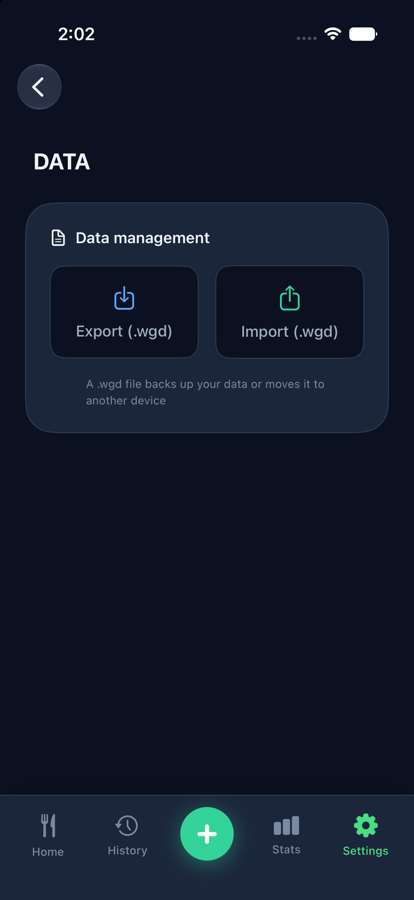
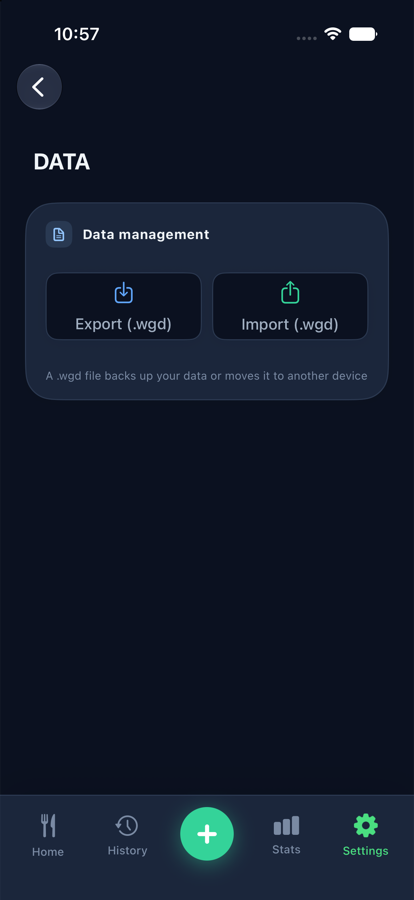
Drop the blur and refresh the screenshots
Content showing through blurred under the bars did not suit the app, so
the bars go back to the flat colour.

The screenshots are all retaken from the running app on the reworked
settings screens, through a throwaway launch argument that picks which
screen to open, so one build covered every shot. That code is not in the
tree.

Changed region(s): [[0.058, 0.2489, 0.9565, 0.4978], [0.1159, 0.0311, 0.2319, 0.0622], [0.8696, 0.3111, 0.8986, 0.3733]]

diff --git a/CalorieFlow/Views/RootView.swift b/CalorieFlow/Views/RootView.swift
@@ -161,25 +161,9 @@ struct ScreenScroll<Content: View>: View {
                 .ignoresSafeArea()
                 .onTapGesture { hideKeyboard() }
         )
-        .overlay(alignment: .top) { StatusBarBlur() }
     }
 }
 
-/// ฝ้าเบลอคลุมพื้นที่ status bar
-///
-/// ทาสีทึบไว้ข้างหลังทำให้ไม่มีแถบดำก็จริง แต่เนื้อหาที่เลื่อนขึ้นไปจะหายวับใต้ขอบ
-/// แบบตัดกึก ซึ่งไม่ใช่พฤติกรรมของ iOS — ของจริงจะเห็นเนื้อหาเบลอ ๆ อยู่ข้างหลัง
-///
-/// `frame(height: 0)` คู่กับ `ignoresSafeArea(edges: .top)` เป็นวิธีให้ view สูงเท่า
-/// safe area ด้านบนพอดีโดยไม่ต้องวัดเอง — ศูนย์บวกส่วนที่ล้นออกไป = ความสูงของ inset
-struct StatusBarBlur: View {
-    var body: some View {
-        Color.clear
-            .frame(height: 0)
-            .background(.ultraThinMaterial)
-            .ignoresSafeArea(edges: .top)
-    }
-}
 
 /// โครงหน้าย่อยที่ทุกหน้าใต้ "ตั้งค่า" ใช้ร่วมกัน รวมถึงหน้าโมเดล AI
 ///
@@ -221,5 +205,7 @@ struct SettingsDetailScreen<Content: View>: View {
         )
         .navigationTitle("")
         .navigationBarTitleDisplayMode(.inline)
+        // สีทึบ ไม่ใช่วัสดุเบลอ — เคยลองปล่อยให้เป็นวัสดุมาตรฐานแล้วไม่เข้ากับหน้าตาแอป
+        .toolbarBackground(Palette.background, for: .navigationBar)
     }
 }

diff --git a/README.md b/README.md
@@ -16,50 +16,33 @@
 
 ## หน้าตาแอป
 
-### หน้าหลัก — ดูที่เดียวจบ
+ภาพทั้งหมดถ่ายจากแอปที่รันจริง ไม่ได้ทำขึ้นใหม่
+
+### หน้าหลัก
+
+<p>
+  <img src="docs/screenshots/home.png" width="240">
+  <img src="docs/screenshots/add-food.png" width="240">
+</p>
 
 วงแหวนบอกแคลอรี่ที่เหลือ ใต้ลงมาเป็นสถานะรวมของวัน น้ำที่ดื่ม และรายการอาหาร
 การ์ดโค้ชอยู่บนสุดเพราะเป็นสิ่งที่ควรอ่านก่อนตัดสินใจมื้อถัดไป
 
-<p>
-  <img src="docs/screenshots/home.png" width="240">
-  <img src="docs/screenshots/home-scroll.png" width="240">
-  <img src="docs/screenshots/add-food.png" width="240">
-</p>
-
 เพิ่มอาหารผ่านปุ่ม **+** ตรงกลางแถบล่าง ถ้าไม่รู้ว่าเมนูนั้นกี่แคลอรี่ กด
-**Estimate calories** ให้โมเดลเดาให้ แล้วแก้ทับได้เสมอ
+**ประมาณแคลอรี่** ให้โมเดลเดาให้ แล้วแก้ทับได้เสมอ
 
-### โค้ช — ถามได้เหมือนคุยกับคน
-
-<p>
-  <img src="docs/screenshots/coach-chat.png" width="240">
-</p>
-
-โค้ชรู้บริบทของคุณอยู่แล้ว (เป้าหมาย แคลอรี่ที่เหลือ น้ำ สตรีค ค่าเฉลี่ยสัปดาห์)
-จึงถามสั้น ๆ ได้เลยว่ามื้อเย็นควรกินอะไร
-
-### ประวัติ — ปฏิทินที่บอกความจริง
+### ประวัติและสถิติ
 
 <p>
   <img src="docs/screenshots/history.png" width="240">
-  <img src="docs/screenshots/history-day.png" width="240">
-</p>
-
-จุดเขียวขึ้นเฉพาะวันที่มีข้อมูลจริง วงกลมทึบคือวันที่เลือก วงขอบจาง ๆ คือวันนี้ —
-สองสถานะนี้เกิดพร้อมกันได้จึงต้องแยกให้ออก กดวันไหนก็เห็นแคลอรี่ น้ำ น้ำหนักที่ชั่งไว้
-และรายการอาหารของวันนั้น
-
-### สถิติ — เห็นแนวโน้ม ไม่ใช่แค่ตัวเลขวันนี้
-
-<p>
   <img src="docs/screenshots/stats.png" width="240">
-  <img src="docs/screenshots/stats-scroll.png" width="240">
 </p>
 
-กราฟ 7 วันย้อนหลังพร้อมเส้นประบอกเป้าหมาย ด้านบนเป็นสรุปสัปดาห์ที่โค้ชเขียนให้
+จุดเขียวบนปฏิทินขึ้นเฉพาะวันที่มีข้อมูลจริง วงกลมทึบคือวันที่เลือก วงขอบจาง ๆ คือวันนี้ —
+สองสถานะนี้เกิดพร้อมกันได้จึงต้องแยกให้ออก ส่วนหน้าสถิติมีกราฟ 7 วันย้อนหลังพร้อม
+เส้นประบอกเป้าหมาย และสรุปสัปดาห์ที่โค้ชเขียนให้
 
-### ตั้งค่า — แยกเป็นหมวด ไม่ต้องเลื่อนยาว
+### ตั้งค่า
 
 <p>
   <img src="docs/screenshots/settings.png" width="240">
@@ -68,23 +51,19 @@
 </p>
 <p>
   <img src="docs/screenshots/appearance.png" width="240">
+  <img src="docs/screenshots/model-ready.png" width="240">
   <img src="docs/screenshots/data.png" width="240">
 </p>
+
+แยกเป็นห้าหมวด กดเข้าไปตั้งค่าอีกชั้น ทุกหน้าใช้โครงเดียวกัน — หัวเรื่องอยู่ในเนื้อหา
+แถบบนเหลือแค่ปุ่มย้อนกลับ ไม่มีข้อความและไม่มีเส้นแบ่ง
 
 ธีมมีตามระบบ / สว่าง / มืด · ภาษามีตามระบบ / ไทย / English · ข้อมูลสำรองเป็นไฟล์
 `.wgd` ไฟล์เดียวกับเวอร์ชันเว็บ ย้ายข้ามเครื่องหรือข้ามแพลตฟอร์มได้
 
-### โมเดล AI — โหลดเมื่ออยากได้ ไม่โหลดก็ใช้ได้
-
-<p>
-  <img src="docs/screenshots/model-download.png" width="240">
-  <img src="docs/screenshots/model-ready.png" width="240">
-</p>
-
-บอกขนาดไว้บนปุ่มตั้งแต่ก่อนกด เพราะกว่าหนึ่งกิกะไบต์ควรเป็นการตัดสินใจที่เห็นตัวเลขก่อน
-ไม่โหลดก็ยังใช้แอปได้ครบ โค้ชจะเปลี่ยนไปให้คำแนะนำแบบกฎธรรมดาแทน
-
----
+โมเดล AI โหลดเมื่ออยากได้ ไม่โหลดก็ใช้แอปได้ครบ โค้ชจะเปลี่ยนไปให้คำแนะนำแบบ
+กฎธรรมดาแทน — ขนาดเขียนไว้บนปุ่มตั้งแต่ก่อนกด เพราะกว่าหนึ่งกิกะไบต์ควรเป็นการ
+ตัดสินใจที่เห็นตัวเลขก่อน
 
 ## โค้ชทำงานยังไง
 
@@ -122,7 +101,7 @@ open CalorieFlow.xcodeproj
 
 ### ถ้าจะโฮสต์โมเดลเอง
 
-`LLM/convert.py` แปลง Qwen2.5-1.5B-Instruct เป็น Core ML แบบ stateful (รันบน Colab)
+`otherData/convert.py` แปลง Qwen2.5-1.5B-Instruct เป็น Core ML แบบ stateful (รันบน Colab)
 แล้วอัปสามไฟล์ที่ได้ขึ้นที่ไหนสักที่ที่โหลดตรงได้
 
 ```
